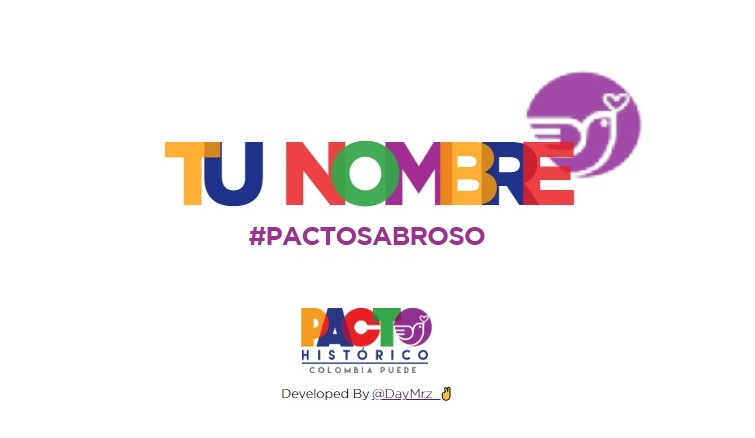
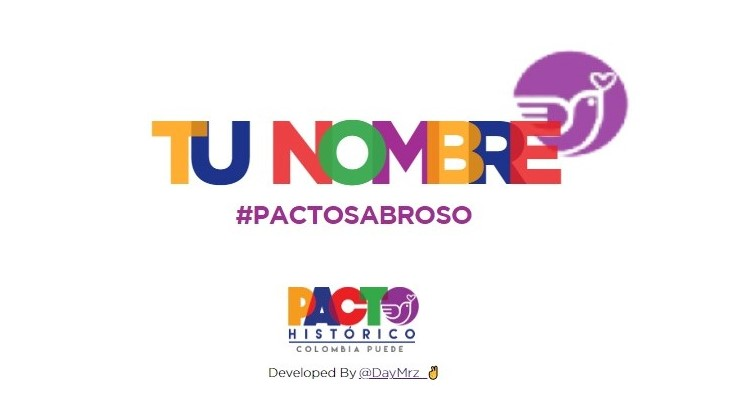
check

Changed region(s): [[0.186, 0.0935, 0.8679, 0.5612], [0.341, 0.6859, 0.6199, 0.9353]]

diff --git a/public/index.html b/public/index.html
@@ -46,7 +46,7 @@
 
     <meta name="author" content="DayMrz" />
     <meta name="twitter:creator" content="@DayMrz_" />
-    <meta property="og:image" width="755" height="438" content="%PUBLIC_URL%/og-img.jpeg" />
+    <meta property="og:image" width="742" height="417" content="%PUBLIC_URL%/og-img.jpeg" />
   </head>
   <body>
     <noscript>You need to enable JavaScript to run this app.</noscript>
